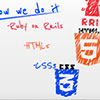
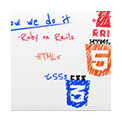
portfolio

diff --git a/app/assets/stylesheets/style.css b/app/assets/stylesheets/style.css
@@ -308,10 +308,16 @@ margin: auto;
 #work{
 	margin: 60px 30px 30px 100px;
 	padding: 20px 0 0 20px;
-	background: yellow;
 }
-
-
+.cat{
+	padding-left:10px;
+}
+#fade{
+  opacity: .7;
+}
+#fade:hover{
+  opacity: 1.0;
+}
 
 
 
